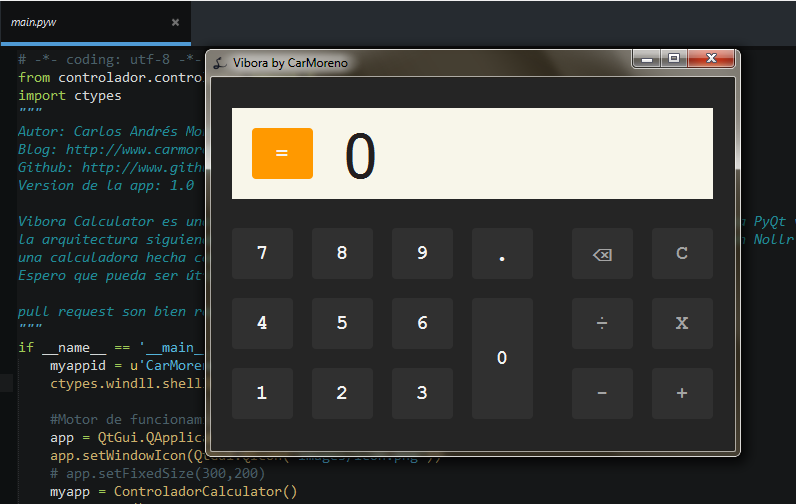
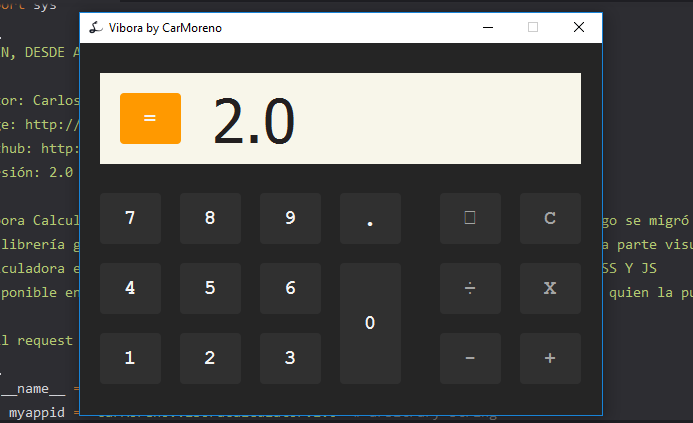
Imágenes ahora en imgur, actualización de README.md. :pencil:

diff --git a/controlador/controlador.py b/controlador/controlador.py
@@ -1,3 +1,5 @@
+ #!/usr/bin/python
+ # -*- coding: utf-8 -*-
 import sys
 from vista.vista import *
 from modelo.modelo import *
@@ -28,13 +30,6 @@ class ControladorCalculator(QtGui.QMainWindow):
                             self.vista.division,
                             self.vista.resultado
                         ]
-        # self.opButtons = [self.vista.button_c,
-        #                 self.vista.button_erase,
-        #                 self.vista.suma,
-        #                 self.vista.resta,
-        #                 self.vista.multiplicacion,
-        #                 self.vista.division   
-        #               ]
         self.inputNumber = self.vista.inputNumber#Caja de texto de la calculadora
         self.modelo = ModeloCalculator()#Necesito un objeto modelo para algunas gestiones
         self.managerMuestra()#Manejador de la muestra de caracteres en la calculadora                       
@@ -54,7 +49,7 @@ class ControladorCalculator(QtGui.QMainWindow):
         self.modelo.managerMuestra(self.buttons, self.buttonReleased)
     
     def buttonReleased(self):
-        """Funcion que se encrga de determinar qué boton ha sido seleccionado y
+        """Funcion que se encarga de determinar qué boton ha sido seleccionado y
         luego de esto, manda el nombre del objeto del boton en forma de string al modelo
         para que este haga las gestiones pertienentes"""
         sending_button = self.sender()

diff --git a/modelo/modelo.py b/modelo/modelo.py
@@ -1,4 +1,5 @@
-# -*- coding: utf-8 -*-
+ #!/usr/bin/python
+ # -*- coding: utf-8 -*-
 class ModeloCalculator(object):
 	"""Modelo de la calculadora, se encarga de hacer las operaciones y de mostrar los numeros
 	en la pantalla, tambien se encarga de validar las cadenas de entrada"""

diff --git a/README.md b/README.md
@@ -5,11 +5,11 @@ la arquitectura sigue el patrón MVC, la parte visual de esta calculadora está 
 una calculadora hecha con HTML, CSS Y JS. La idea que tuve fue crear una calculadora similar a la ya descrita pero usando
 solamente el lenguaje Python, si quieres puedes descargar el _[archivo ejecutable][5]._ A continuación un screenshot de la aplicación, espero que pueda ser útil para quien la pueda necesitar. 
 
-
+##Screenshot
 ![screenshot][2]
 
 [1]:http://apps.nollr.com/calculator
-[2]:images/screenshot.png
-[3]:images/title.png
+[2]:http://i.imgur.com/Kr8TLVV.png
+[3]:http://i.imgur.com/UCF88zg.png
 [4]:https://pypi.python.org/pypi/PyQt4
 [5]:https://mega.nz/#!VwVUgBzb!BIjicAKrCzauFqYKcpzD3dLQbkjUk2rqv4fyFFEbzmc
